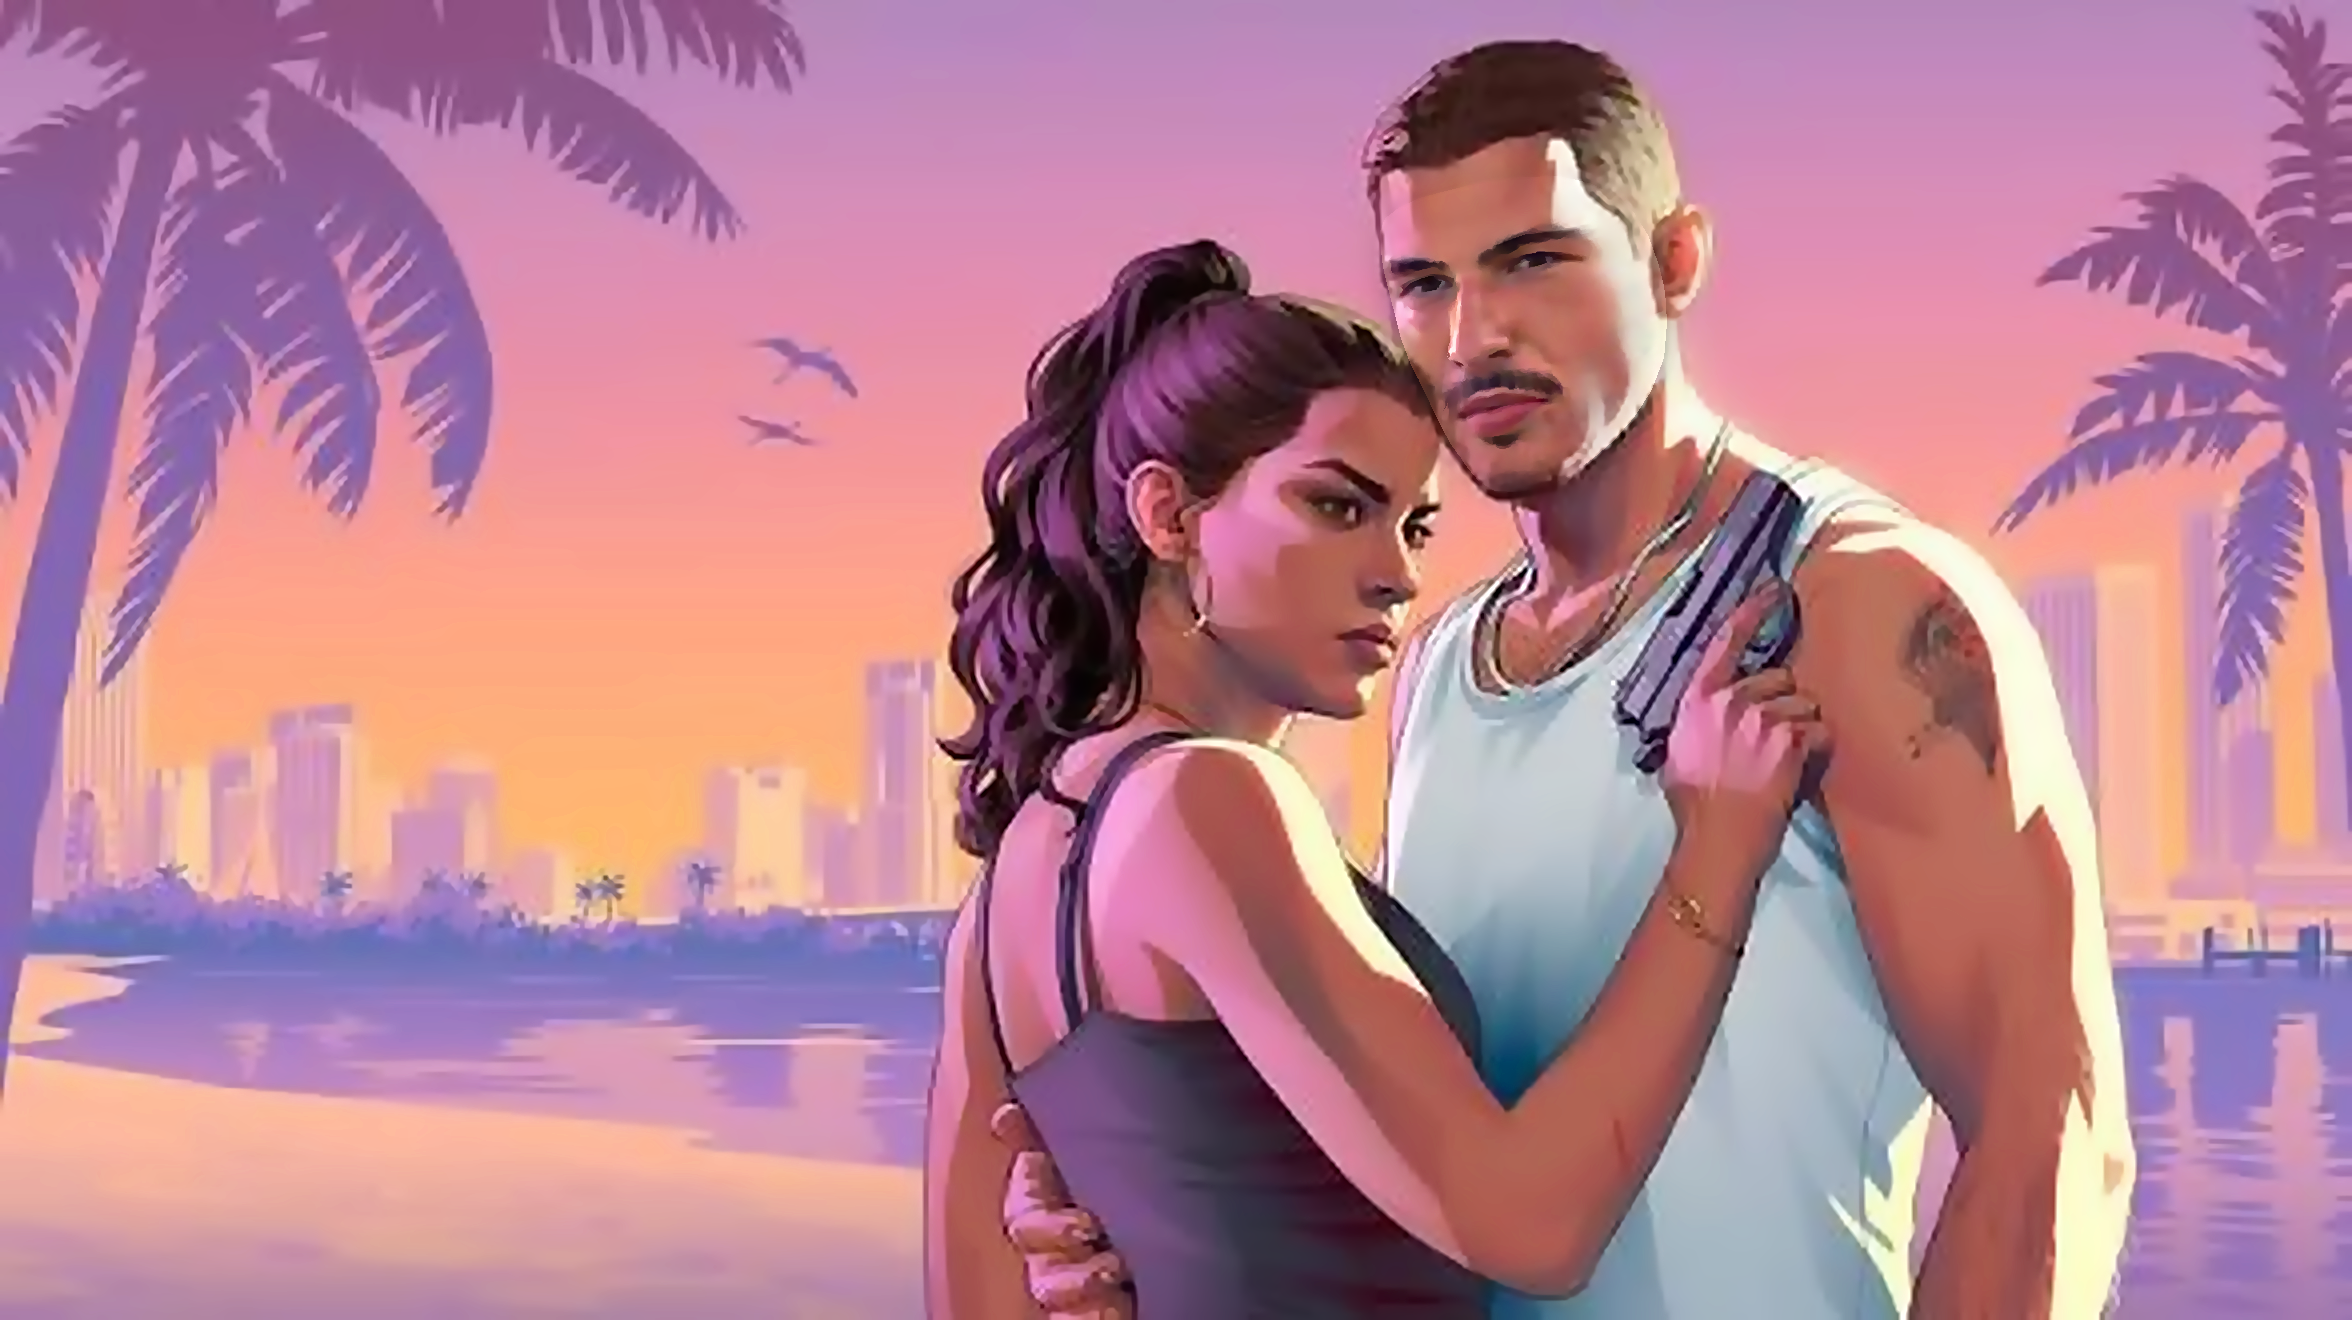
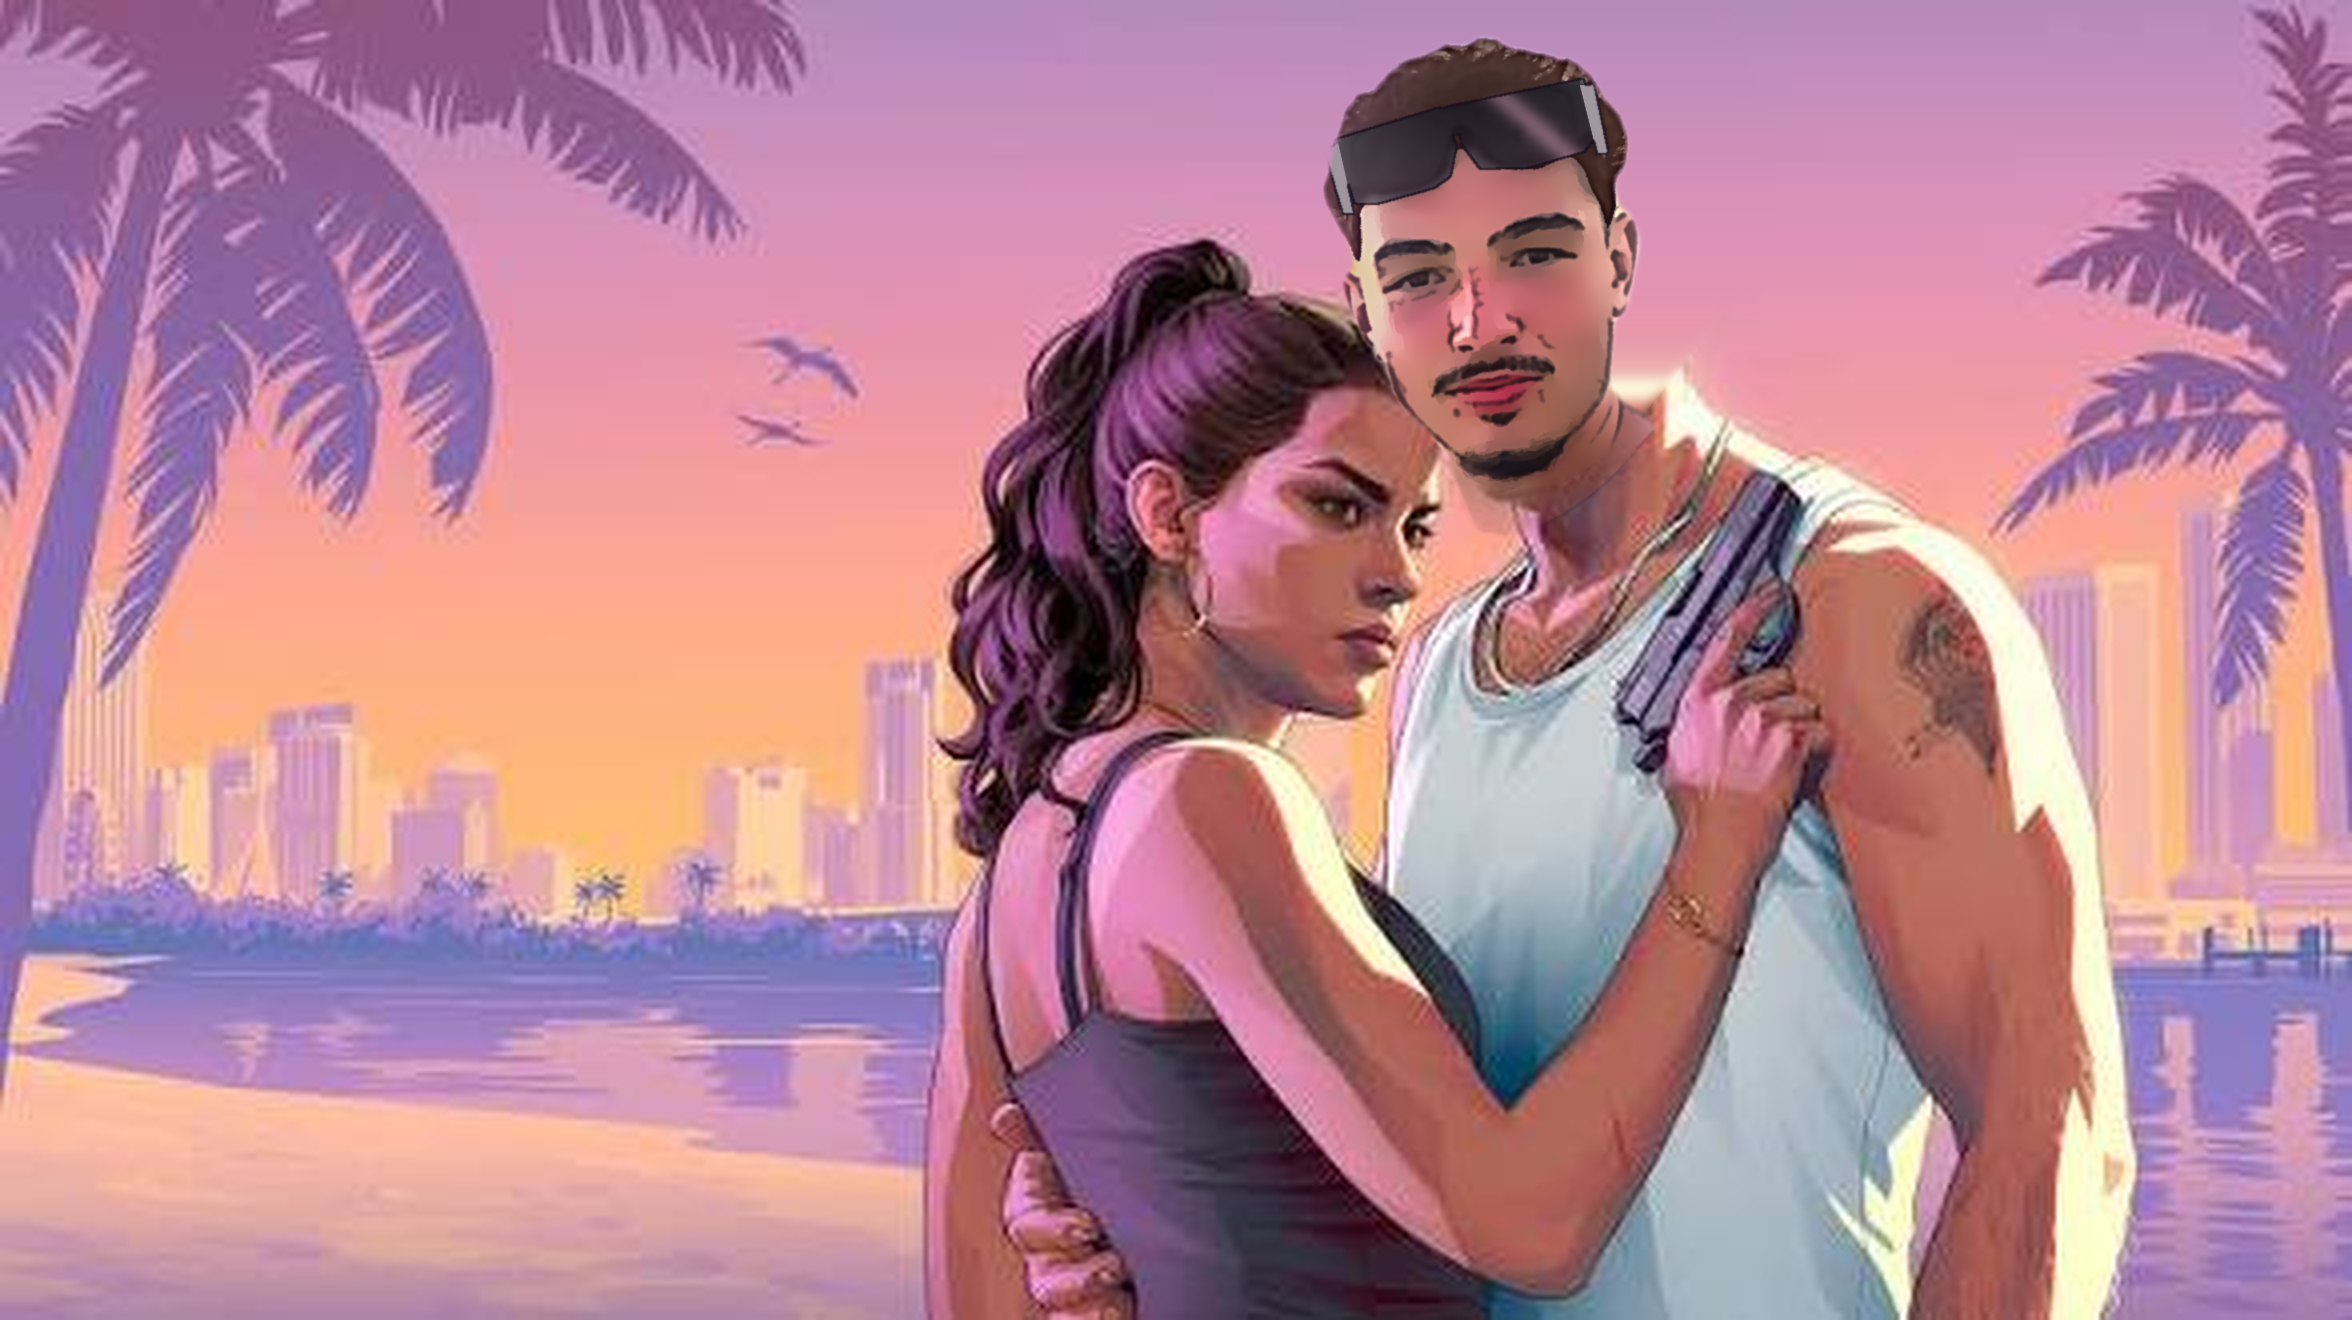
Montage GTA v2 : vraie tête (cheveux, lunettes) passée en style dessin
Claude-Session: https://claude.ai/code/session_016oDJEcvwtF11tJsvLtidy1

Changed region(s): [[0.5587, 0.0311, 0.7449, 0.4038]]

diff --git a/montages/gta-affiche/v6.py b/montages/gta-affiche/v6.py
@@ -1,0 +1,114 @@
+import cv2, numpy as np, sys
+SC=float(sys.argv[1]) if len(sys.argv)>1 else 1.12
+U='/root/.claude/uploads/795a4e5b-6bad-529c-9439-234a26010442/'
+src=cv2.imread(U+'3f226727-image.png'); tgt=cv2.imread('work/tgt4.png')
+C=np.load('work/segconf.npy').astype(np.float32)
+T=np.load('work/tgt_lm.npy')*4
+SL=np.load('work/src_lm.npy'); Sp=SL[np.argmax(SL[:,:,0].mean(1))]
+H,W=tgt.shape[:2]; sh,sw=src.shape[:2]
+yy,xx=np.mgrid[:sh,:sw]; chin=Sp[152]
+guy=(xx>Sp[:,0].min()-300)&(yy<chin[1]+150)
+hm=(((C[...,1]+C[...,3]+C[...,5])>0.5)&guy).astype(np.uint8)
+n,cc=cv2.connectedComponents(hm); hm=(cc==cc[int(Sp[1,1]),int(Sp[1,0])]).astype(np.uint8)
+# ears: skin-coloured pixels next to the face, between eyes and mouth height
+Ls=cv2.cvtColor(src,cv2.COLOR_BGR2LAB).astype(np.float32)
+fm=(C[...,3]>0.6)&guy; mu=Ls[fm].mean(0); sd=Ls[fm].std(0)
+d=np.sqrt((((Ls-mu)/sd)**2)[...,1:].sum(-1))
+band=(yy>Sp[105,1])&(yy<Sp[13,1])&(xx>Sp[:,0].min()-110)&(xx<Sp[:,0].max()+110)
+ear=((d<2.2)&band).astype(np.uint8)
+ear=cv2.morphologyEx(ear,cv2.MORPH_OPEN,np.ones((7,7)))
+grow=cv2.dilate(hm,np.ones((120,120)))
+m=np.maximum(hm,ear*grow)
+m=cv2.morphologyEx(m,cv2.MORPH_CLOSE,np.ones((15,15)))
+n,cc=cv2.connectedComponents(m); m=(cc==cc[int(Sp[1,1]),int(Sp[1,0])]).astype(np.float32)
+# neck fading into the poster's neck
+nk=((C[...,2]>0.5)&(xx>Sp[:,0].min()-40)&(xx<Sp[:,0].max()+40)&(yy<chin[1]+110)).astype(np.float32)*np.clip((chin[1]+110-yy)/110,0,1)
+m=np.maximum(m,nk); m=cv2.GaussianBlur(m,(0,0),2.0)
+# alignment, then scale up around the face centre
+ids=[33,133,362,263,1,61,291,152,10,234,454]
+M,_=cv2.estimateAffinePartial2D(Sp[ids].astype(np.float32),T[ids].astype(np.float32))
+c=T[ids].mean(0); A=np.vstack([M,[0,0,1]]); S=np.array([[SC,0,c[0]*(1-SC)],[0,SC,c[1]*(1-SC)],[0,0,1]]); M=(S@A)[:2]
+hw=cv2.warpAffine(src,M,(W,H),flags=cv2.INTER_AREA); mw=cv2.warpAffine(m,M,(W,H))
+fS=cv2.warpAffine((C[...,3]>0.5).astype(np.float32),M,(W,H))>0.5
+gS=cv2.warpAffine(((C[...,1]+C[...,5])>0.5).astype(np.float32)*m,M,(W,H))>0.5
+# ---- erase the original head from the poster
+oh=np.zeros((H,W),np.uint8)
+P=T.copy(); top=P[:,1].min(); ctr=P.mean(0)
+P2=np.vstack([P,[[P[:,0].min()-20,top-190],[P[:,0].max()+40,top-170],[ctr[0],top-230],[P[:,0].max()+90,P[454,1]],[P[:,0].max()+90,P[454,1]-120]]])
+cv2.fillConvexPoly(oh,cv2.convexHull(np.int32(P2)),255)
+oh[int(T[152,1])-10:,:]=0                      # keep neck
+oh=cv2.bitwise_and(oh,cv2.bitwise_not((mw>0.95).astype(np.uint8)*255)) if False else oh
+ohd=cv2.dilate(oh,np.ones((9,9)))
+base=cv2.inpaint(tgt,ohd,25,cv2.INPAINT_TELEA).astype(np.float32)
+fill=base.copy()
+for y in range(H):
+    xsr=np.where(ohd[y]>0)[0]
+    if len(xsr): 
+        xr=min(W-1,xsr.max()+12); fill[y,xsr]=tgt[y,xr]
+fill=cv2.GaussianBlur(fill,(0,0),6)
+k=cv2.GaussianBlur(ohd.astype(np.float32)/255,(0,0),4)[...,None]
+yb=(np.arange(H)[:,None,None]<T[152,1]-60)
+base=np.where(yb,base*(1-k)+fill*k,base)
+# ---- colour grade the head toward the poster
+Lt=cv2.cvtColor(tgt,cv2.COLOR_BGR2LAB).astype(np.float32)
+tm=np.zeros((H,W),np.uint8); cv2.fillConvexPoly(tm,cv2.convexHull(np.int32(T)),1); tm=cv2.erode(tm,np.ones((25,25)))>0
+Lh=cv2.cvtColor(hw,cv2.COLOR_BGR2LAB).astype(np.float32)
+a=Lh[fS]; b=Lt[tm]; o=Lh.copy()
+for ch,kc in [(0,0.9),(1,1.0),(2,1.0)]:
+    o[...,ch]=(Lh[...,ch]-a[:,ch].mean())*(b[:,ch].std()/a[:,ch].std())*kc+b[:,ch].mean()
+o[...,0]=np.where(gS,Lh[...,0]*0.78,o[...,0])          # hair & glasses keep their darkness
+o[...,1]=np.where(gS,Lh[...,1]*0.5+0.5*142,o[...,1]); o[...,2]=np.where(gS,Lh[...,2]*0.5+0.5*146,o[...,2])
+sk=~gS; o[...,0]=np.where(sk,o[...,0]*0.93,o[...,0]); o[...,1]=np.where(sk,o[...,1]+3,o[...,1]); o[...,2]=np.where(sk,o[...,2]+6,o[...,2])
+st=cv2.cvtColor(np.clip(o,0,255).astype(np.uint8),cv2.COLOR_LAB2BGR)
+# ---- illustration rendering
+p=st
+for _ in range(5): p=cv2.bilateralFilter(p,9,18,7)
+p=cv2.edgePreservingFilter(p,flags=cv2.RECURS_FILTER,sigma_s=30,sigma_r=0.15).astype(np.float32)
+g=cv2.GaussianBlur(cv2.cvtColor(st,cv2.COLOR_BGR2GRAY),(0,0),1.2).astype(np.float32)
+dog=cv2.GaussianBlur(g,(0,0),1.0)-cv2.GaussianBlur(g,(0,0),3.0)
+ink=np.clip(1+dog/14,0.35,1); ink=np.where(ink>0.8,1,ink)
+ib=(ink<1).astype(np.uint8); nn,cc2,stt,_=cv2.connectedComponentsWithStats(ib)
+small=np.isin(cc2,np.where(stt[:,4]<60)[0]); ink[small&fS]=1; ink=cv2.GaussianBlur(ink,(0,0),0.8)[...,None]
+p=p*ink
+det=cv2.bilateralFilter(st,7,25,5).astype(np.float32)
+gl=cv2.GaussianBlur(gS.astype(np.float32),(0,0),3)[...,None]
+dm=det.mean(-1,keepdims=True); det=(det-dm)*1.0+(cv2.GaussianBlur(dm,(0,0),6)[...,None] if False else dm)*0.8+(dm-cv2.GaussianBlur(dm,(0,0),5)[...,None])*1.4
+p=p*(1-gl)+np.clip(det,0,255)*gl
+bl=cv2.GaussianBlur(p,(0,0),2.5); p=p*1.35-bl*0.35
+# poster lighting
+xs=np.arange(W,dtype=np.float32)[None,:]; x0,x1=T[:,0].min(),T[:,0].max(); fw=x1-x0
+r=np.clip((xs-(x0+0.70*fw))/(0.40*fw),0,1)**1.3; r=(r*(~gS*0.8+0.2))[...,None]
+p=p*(1-0.6*r)+np.array([240,232,255],np.float32)*0.6*r
+l=np.clip(((x0+0.2*fw)-xs)/(0.4*fw),0,1)[...,None]
+p=p*(1-0.3*l)+np.array([140,70,115],np.float32)*0.3*l
+p=np.clip(p*0.9+np.array([175,140,205],np.float32)*0.1,0,255)
+p=cv2.GaussianBlur(p,(0,0),0.7)
+# ---- sunglasses drawn on top
+GP=np.load('work/glass_polys.npy',allow_pickle=True)
+lm=np.zeros((sh,sw),np.uint8); am=np.zeros((sh,sw),np.uint8)
+for q in GP[:3]: cv2.fillPoly(lm,[np.int32(q)],255,cv2.LINE_AA)
+for q in GP[3:]: cv2.fillPoly(am,[np.int32(q)],255,cv2.LINE_AA)
+lw=cv2.warpAffine(lm,M,(W,H)).astype(np.float32)/255; aw=cv2.warpAffine(am,M,(W,H)).astype(np.float32)/255
+gsrc=cv2.cvtColor(hw,cv2.COLOR_BGR2GRAY).astype(np.float32)
+gsrc=cv2.bilateralFilter(gsrc,7,20,5)
+ys_,xs_=np.nonzero(lw>0.5); gy0,gy1=ys_.min(),ys_.max(); gx0,gx1=xs_.min(),xs_.max()
+yy2,xx2=np.mgrid[:H,:W].astype(np.float32)
+tv=np.clip((yy2-gy0)/(gy1-gy0+1),0,1); th=np.clip((xx2-gx0)/(gx1-gx0+1),0,1)
+lens=np.array([38,30,34],np.float32)*(1-tv[...,None])+np.array([70,58,72],np.float32)*tv[...,None]
+lens=lens+((gsrc-gsrc[lw>0.5].mean())*0.9)[...,None]
+# sky reflection streak
+streak=np.exp(-((th*1.0-tv*0.55-0.55)/0.07)**2)*(tv<0.75)
+lens=lens*(1-0.4*streak[...,None])+np.array([200,175,235],np.float32)*0.4*streak[...,None]
+lens=lens*(1-0.2*r)+np.array([235,225,255],np.float32)*0.2*r
+p=p*(1-lw[...,None])+np.clip(lens,0,255)*lw[...,None]
+arm=np.array([225,215,230],np.float32)*(1-0.3*(1-r))
+p=p*(1-aw[...,None])+arm*aw[...,None]
+edge=cv2.morphologyEx(((lw+aw)>0.5).astype(np.uint8),cv2.MORPH_GRADIENT,np.ones((3,3))).astype(np.float32)
+edge=cv2.GaussianBlur(edge,(0,0),0.7)[...,None]
+p=p*(1-0.85*edge)+np.array([30,15,25],np.float32)*0.85*edge
+al=cv2.GaussianBlur(cv2.erode(mw,np.ones((5,5))),(0,0),1.5)[...,None]
+comp=np.clip(base*(1-al)+p*al,0,255).astype(np.uint8)
+cv2.imwrite('work/v6.png',comp)
+y0=max(0,int(T[:,1].min()-300)); xa=int(T[:,0].min()-300)
+cv2.imwrite('work/v6_crop.png',comp[y0:y0+720,xa:xa+900])
+cv2.imwrite('work/v6_view.jpg',cv2.resize(comp,(1176,660),interpolation=cv2.INTER_AREA))

diff --git a/montages/gta-affiche/head.py b/montages/gta-affiche/head.py
@@ -1,0 +1,31 @@
+import cv2, numpy as np
+U='/root/.claude/uploads/795a4e5b-6bad-529c-9439-234a26010442/'
+src=cv2.imread(U+'3f226727-image.png'); tgt=cv2.imread('work/tgt4.png')
+C=np.load('work/segconf.npy').astype(np.float32)
+T=np.load('work/tgt_lm.npy')*4
+SL=np.load('work/src_lm.npy'); Sp=SL[np.argmax(SL[:,:,0].mean(1))]
+H,W=tgt.shape[:2]
+# --- head mask on selfie (only the guy)
+head=C[...,1]+C[...,3]+C[...,5]
+neck=C[...,2].copy()
+yy,xx=np.mgrid[:src.shape[0],:src.shape[1]]
+chin=Sp[152]; 
+guy=(xx>Sp[:,0].min()-260)&(yy<chin[1]+120)&(yy>Sp[:,1].min()-500)
+lab=C.argmax(-1)
+# keep the connected component around the guy
+hm=((head>0.5)&guy).astype(np.uint8)
+n,cc=cv2.connectedComponents(hm); k=cc[int(Sp[1,1]),int(Sp[1,0])]; hm=(cc==k).astype(np.float32)
+nk=((neck>0.5)&guy&(yy<chin[1]+120)&(xx>Sp[:,0].min()-60)&(xx<Sp[:,0].max()+60)).astype(np.float32)
+fade=np.clip((chin[1]+120-yy)/120,0,1)
+m=np.maximum(hm,nk*fade)
+m=cv2.morphologyEx(m,cv2.MORPH_CLOSE,np.ones((9,9)))
+m=cv2.GaussianBlur(m,(0,0),2.5)
+# --- similarity alignment selfie -> poster
+ids=[33,133,362,263,1,61,291,152,10,234,454]
+M,_=cv2.estimateAffinePartial2D(Sp[ids].astype(np.float32),T[ids].astype(np.float32))
+hw=cv2.warpAffine(src,M,(W,H),flags=cv2.INTER_AREA if M[0,0]<1 else cv2.INTER_CUBIC)
+mw=cv2.warpAffine(m,M,(W,H))
+faceS=cv2.warpAffine(C[...,3],M,(W,H)); hairS=cv2.warpAffine(C[...,1]+C[...,5],M,(W,H))
+np.save('work/M.npy',M)
+cv2.imwrite('work/hw.png',hw); np.save('work/mw.npy',mw); np.save('work/faceS.npy',faceS); np.save('work/hairS.npy',hairS)
+print(M, M[0,0]**2+M[0,1]**2)

diff --git a/montages/gta-affiche/seg.py b/montages/gta-affiche/seg.py
@@ -1,0 +1,12 @@
+import cv2, numpy as np, mediapipe as mp
+from mediapipe.tasks.python import vision, BaseOptions
+U='/root/.claude/uploads/795a4e5b-6bad-529c-9439-234a26010442/'
+src=cv2.imread(U+'3f226727-image.png')
+seg=vision.ImageSegmenter.create_from_options(vision.ImageSegmenterOptions(base_options=BaseOptions(model_asset_path='seg.tflite'),output_confidence_masks=True))
+r=seg.segment(mp.Image(image_format=mp.ImageFormat.SRGB,data=cv2.cvtColor(src,cv2.COLOR_BGR2RGB)))
+C=np.stack([m.numpy_view().squeeze() for m in r.confidence_masks],-1)  # bg,hair,body,face,clothes,others
+np.save('work/segconf.npy',C.astype(np.float16))
+print(C.shape,src.shape,src.dtype)
+lab=C.argmax(-1).astype(np.uint8)
+pal=np.array([[0,0,0],[0,0,255],[0,255,0],[255,0,0],[255,255,0],[0,255,255]],np.uint8)
+v=cv2.addWeighted(src,0.5,pal[lab].reshape(src.shape),0.5,0); cv2.imwrite('work/segview.jpg',cv2.resize(v,None,fx=0.4,fy=0.4))

diff --git a/montages/gta-affiche/glasses.py b/montages/gta-affiche/glasses.py
@@ -1,0 +1,13 @@
+import cv2,numpy as np
+s=cv2.imread('/root/.claude/uploads/795a4e5b-6bad-529c-9439-234a26010442/3f226727-image.png')
+o=np.array([450,600])
+L=[(128,252),(280,244),(288,300),(270,338),(245,348),(165,350),(135,342)]
+R=[(298,246),(478,254),(482,330),(455,350),(375,352),(312,338),(296,300)]
+B=[(270,246),(310,246),(305,285),(275,285)]
+TL=[(112,262),(132,258),(130,355),(116,352)]; TR=[(472,262),(490,265),(486,360),(472,357)]
+polys={'lens':[L,R,B],'arm':[TL,TR]}
+np.save('work/glass_polys.npy',np.array([np.array(p)+o for p in L and [L,R,B,TL,TR]],dtype=object),allow_pickle=True)
+v=s[600:1400,450:1150].copy()
+for p in [L,R,B]: cv2.polylines(v,[np.int32(p)],True,(0,255,0),2)
+for p in [TL,TR]: cv2.polylines(v,[np.int32(p)],True,(0,0,255),2)
+cv2.imwrite('work/gpoly.jpg',v[150:450,50:550])
